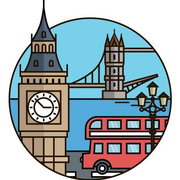
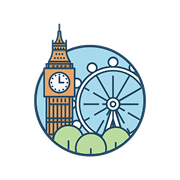
Add files via upload

diff --git a/index.html b/index.html
@@ -6,8 +6,6 @@
 <meta name="theme-color" content="#1d1d1f">
 <meta name="apple-mobile-web-app-capable" content="yes">
 <meta name="apple-mobile-web-app-status-bar-style" content="black-translucent">
-<link rel="icon" type="image/png" sizes="32x32" href="favicon-32.png">
-<link rel="icon" type="image/png" sizes="16x16" href="favicon-16.png">
 <link rel="icon" type="image/png" sizes="192x192" href="favicon-192.png">
 <link rel="apple-touch-icon" sizes="180x180" href="apple-touch-icon.png">
 <title>런던 여행 · 2026.07</title>